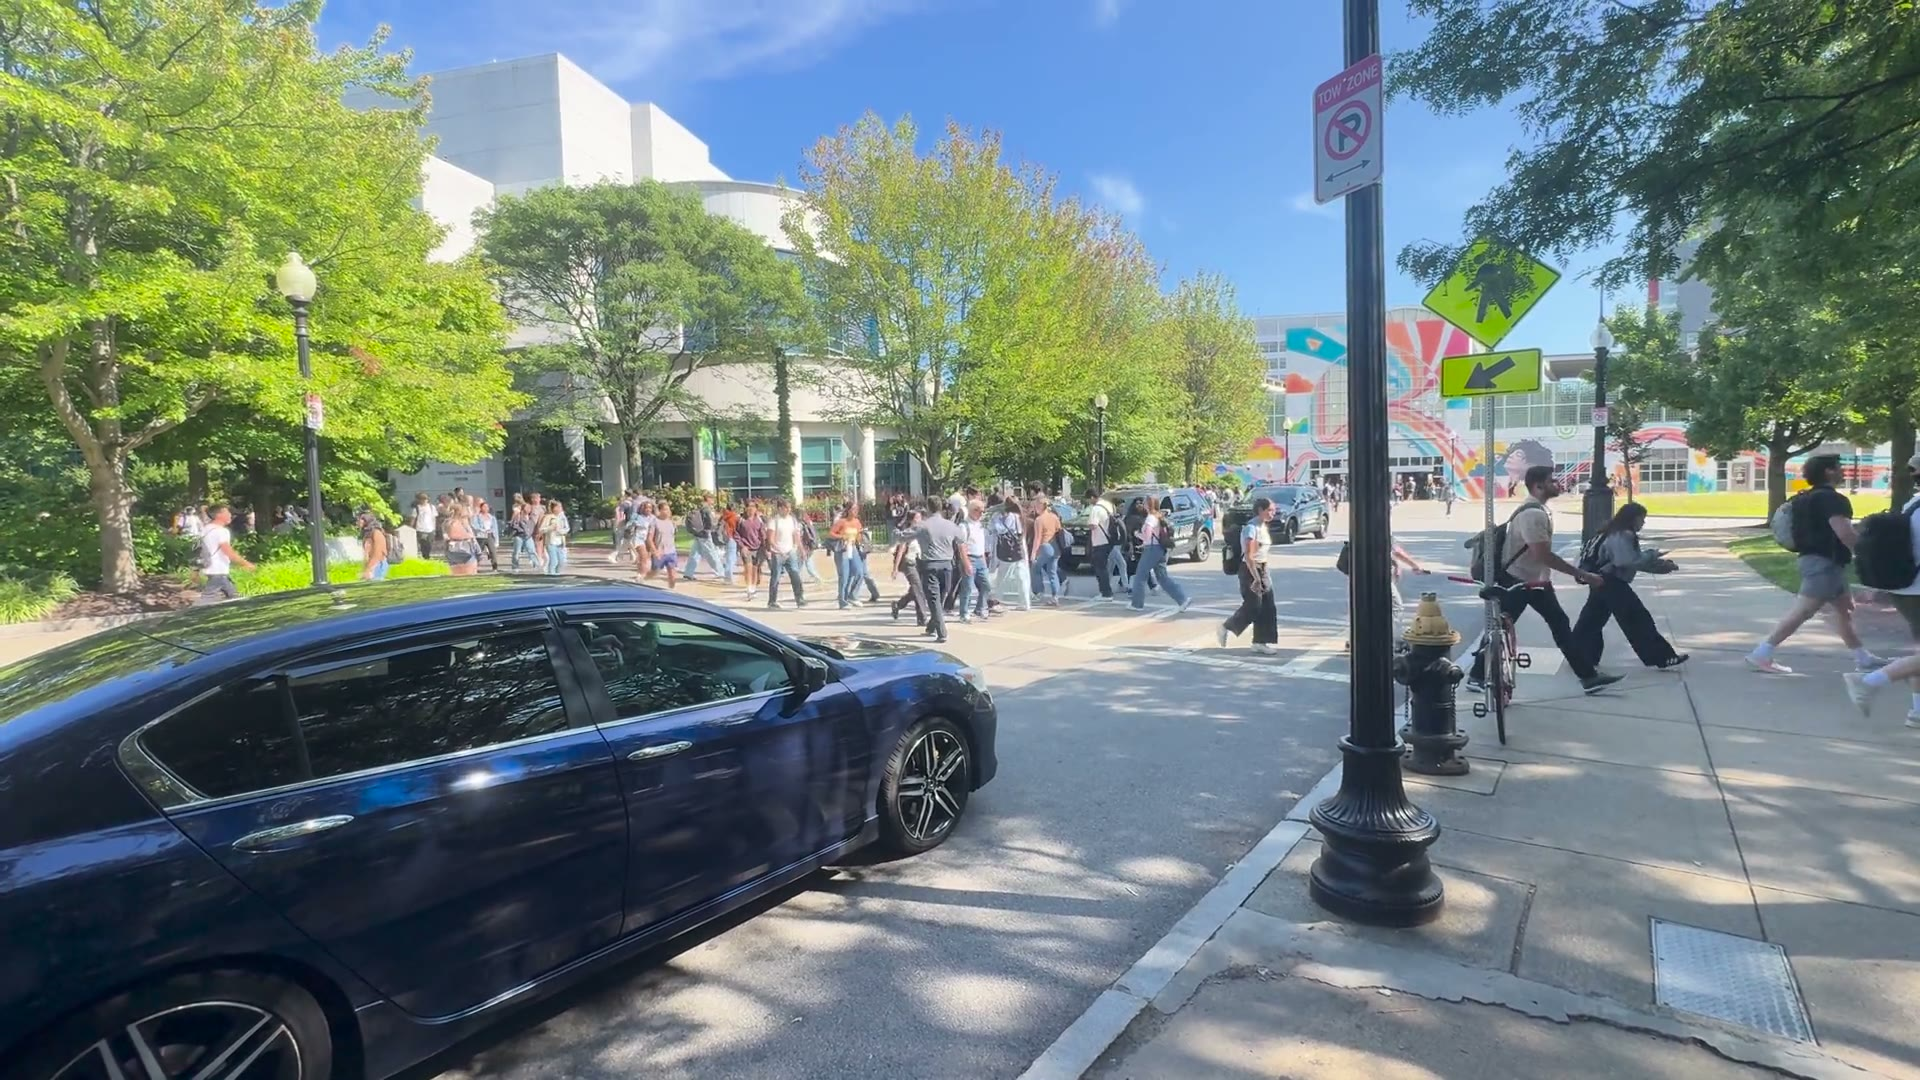
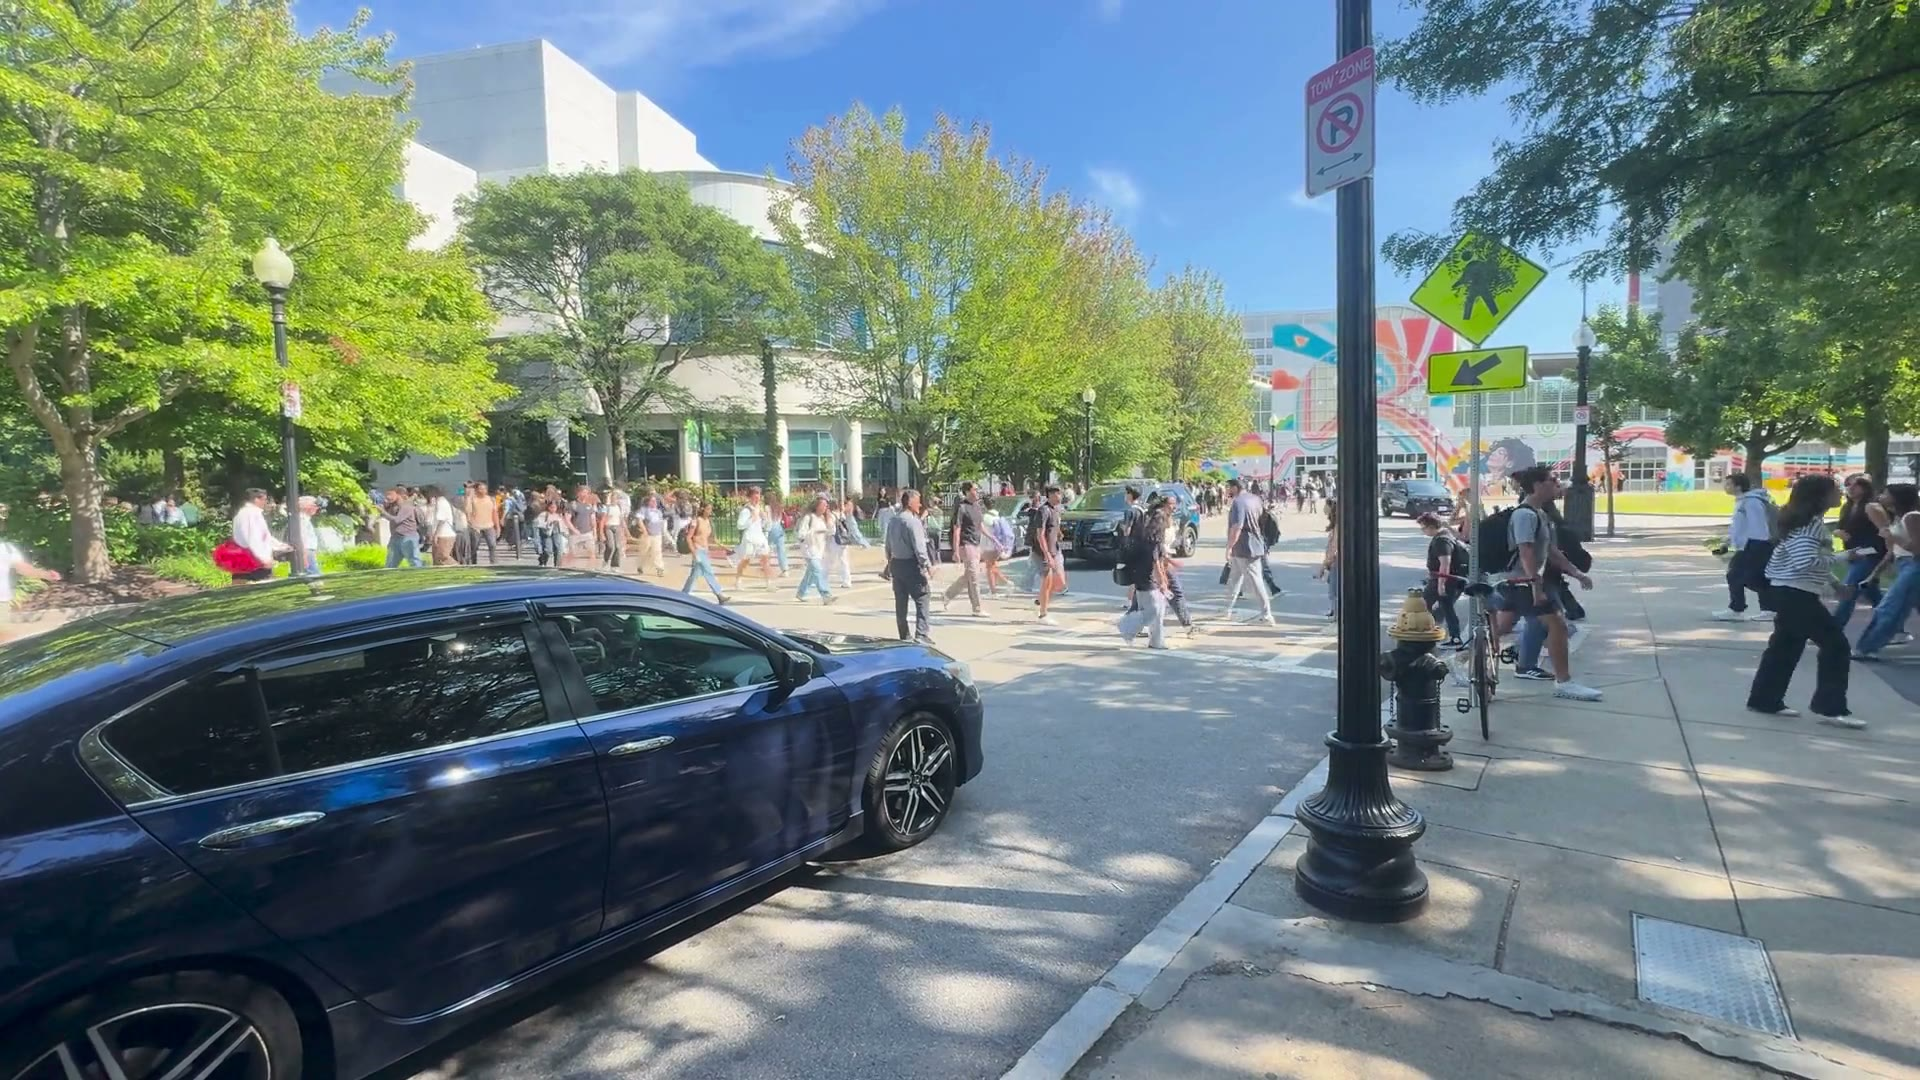
ch13 econ1116: update crosswalk videos (cross1/cross2 re-recorded) on R2 + refresh posters + cache-bust deck URLs (?v=2)

diff --git a/econ1116/ch13-oligopoly-game-theory/index.html b/econ1116/ch13-oligopoly-game-theory/index.html
@@ -2550,7 +2550,7 @@
 <section id="social-crosswalk">
  <h2><i class="fa-solid fa-person-walking" style="color:var(--secondary-color);"></i> A Social Problem: Who Gets to Pass First?</h2>
  <div style="position:relative; max-width:780px; margin:0 auto; aspect-ratio:16/9; background:#0d1b2a url('figures/cross1-poster.jpg') center/cover no-repeat; border-radius:10px; overflow:hidden; box-shadow:0 3px 14px rgba(0,0,0,0.3);">
-  <video data-src="https://pub-fa3318ef831f4dbaa4ee4bef1dc209b6.r2.dev/lectures/ch13/cross1.mp4" poster="figures/cross1-poster.jpg" autoplay muted loop playsinline preload="none" style="display:block; width:100%; height:100%; object-fit:cover;"></video>
+  <video data-src="https://pub-fa3318ef831f4dbaa4ee4bef1dc209b6.r2.dev/lectures/ch13/cross1.mp4?v=2" poster="figures/cross1-poster.jpg" autoplay muted loop playsinline preload="none" style="display:block; width:100%; height:100%; object-fit:cover;"></video>
  </div>
  <div class="key-result" style="margin-top:12px;"><p>A car meets a wave of students at the crosswalk. Both can&rsquo;t go at once &mdash; and if they do, disaster. Each side would rather the <em>other</em> wait. It&rsquo;s a coordination game with no referee &mdash; played thousands of times a day.</p></div>
  <aside class="notes">Ground the whole game-theory unit in something they see every day outside Forsyth. A car and a crowd of students both want to go; both yielding wastes everyone&rsquo;s time; both going is catastrophic. No contract is signed, yet it resolves. The puzzle: how do strangers coordinate without talking? Play the clip and ask what actually happens out there.</aside>
@@ -2587,7 +2587,7 @@
 <section id="social-fairness">
  <h2><i class="fa-solid fa-scale-unbalanced" style="color:var(--accent-color);"></i> Efficiency vs. Fairness</h2>
  <div style="position:relative; max-width:780px; margin:0 auto; aspect-ratio:16/9; background:#0d1b2a url('figures/cross2-poster.jpg') center/cover no-repeat; border-radius:10px; overflow:hidden; box-shadow:0 3px 14px rgba(0,0,0,0.3);">
-  <video data-src="https://pub-fa3318ef831f4dbaa4ee4bef1dc209b6.r2.dev/lectures/ch13/cross2.mp4" poster="figures/cross2-poster.jpg" autoplay muted loop playsinline preload="none" style="display:block; width:100%; height:100%; object-fit:cover;"></video>
+  <video data-src="https://pub-fa3318ef831f4dbaa4ee4bef1dc209b6.r2.dev/lectures/ch13/cross2.mp4?v=2" poster="figures/cross2-poster.jpg" autoplay muted loop playsinline preload="none" style="display:block; width:100%; height:100%; object-fit:cover;"></video>
  </div>
  <div class="key-result" style="margin-top:12px;"><p>The two equilibria are not equal. <strong>Cars pass</strong> (&minus;1, 5) creates more total value &mdash; but dumps the cost on people on foot. <strong>Students pass</strong> (1, &minus;2) protects the pedestrian. Which one we settle on is a question of <strong>fairness</strong>, not only efficiency.</p></div>
  <aside class="notes">The off-diagonal cells differ in more than labels. (Yield, Pass) where cars go yields the higher total payoff (+4) but pushes the burden onto the vulnerable pedestrian; (Pass, Yield) where students go is fairer and safer though lower total (-1). Efficiency and fairness pull in different directions, which is why we do not leave it to chance.</aside>

diff --git a/econ1116/ch13-oligopoly-game-theory/presentation.html b/econ1116/ch13-oligopoly-game-theory/presentation.html
@@ -2550,7 +2550,7 @@
 <section id="social-crosswalk">
  <h2><i class="fa-solid fa-person-walking" style="color:var(--secondary-color);"></i> A Social Problem: Who Gets to Pass First?</h2>
  <div style="position:relative; max-width:780px; margin:0 auto; aspect-ratio:16/9; background:#0d1b2a url('figures/cross1-poster.jpg') center/cover no-repeat; border-radius:10px; overflow:hidden; box-shadow:0 3px 14px rgba(0,0,0,0.3);">
-  <video data-src="https://pub-fa3318ef831f4dbaa4ee4bef1dc209b6.r2.dev/lectures/ch13/cross1.mp4" poster="figures/cross1-poster.jpg" autoplay muted loop playsinline preload="none" style="display:block; width:100%; height:100%; object-fit:cover;"></video>
+  <video data-src="https://pub-fa3318ef831f4dbaa4ee4bef1dc209b6.r2.dev/lectures/ch13/cross1.mp4?v=2" poster="figures/cross1-poster.jpg" autoplay muted loop playsinline preload="none" style="display:block; width:100%; height:100%; object-fit:cover;"></video>
  </div>
  <div class="key-result" style="margin-top:12px;"><p>A car meets a wave of students at the crosswalk. Both can&rsquo;t go at once &mdash; and if they do, disaster. Each side would rather the <em>other</em> wait. It&rsquo;s a coordination game with no referee &mdash; played thousands of times a day.</p></div>
  <aside class="notes">Ground the whole game-theory unit in something they see every day outside Forsyth. A car and a crowd of students both want to go; both yielding wastes everyone&rsquo;s time; both going is catastrophic. No contract is signed, yet it resolves. The puzzle: how do strangers coordinate without talking? Play the clip and ask what actually happens out there.</aside>
@@ -2587,7 +2587,7 @@
 <section id="social-fairness">
  <h2><i class="fa-solid fa-scale-unbalanced" style="color:var(--accent-color);"></i> Efficiency vs. Fairness</h2>
  <div style="position:relative; max-width:780px; margin:0 auto; aspect-ratio:16/9; background:#0d1b2a url('figures/cross2-poster.jpg') center/cover no-repeat; border-radius:10px; overflow:hidden; box-shadow:0 3px 14px rgba(0,0,0,0.3);">
-  <video data-src="https://pub-fa3318ef831f4dbaa4ee4bef1dc209b6.r2.dev/lectures/ch13/cross2.mp4" poster="figures/cross2-poster.jpg" autoplay muted loop playsinline preload="none" style="display:block; width:100%; height:100%; object-fit:cover;"></video>
+  <video data-src="https://pub-fa3318ef831f4dbaa4ee4bef1dc209b6.r2.dev/lectures/ch13/cross2.mp4?v=2" poster="figures/cross2-poster.jpg" autoplay muted loop playsinline preload="none" style="display:block; width:100%; height:100%; object-fit:cover;"></video>
  </div>
  <div class="key-result" style="margin-top:12px;"><p>The two equilibria are not equal. <strong>Cars pass</strong> (&minus;1, 5) creates more total value &mdash; but dumps the cost on people on foot. <strong>Students pass</strong> (1, &minus;2) protects the pedestrian. Which one we settle on is a question of <strong>fairness</strong>, not only efficiency.</p></div>
  <aside class="notes">The off-diagonal cells differ in more than labels. (Yield, Pass) where cars go yields the higher total payoff (+4) but pushes the burden onto the vulnerable pedestrian; (Pass, Yield) where students go is fairer and safer though lower total (-1). Efficiency and fairness pull in different directions, which is why we do not leave it to chance.</aside>
